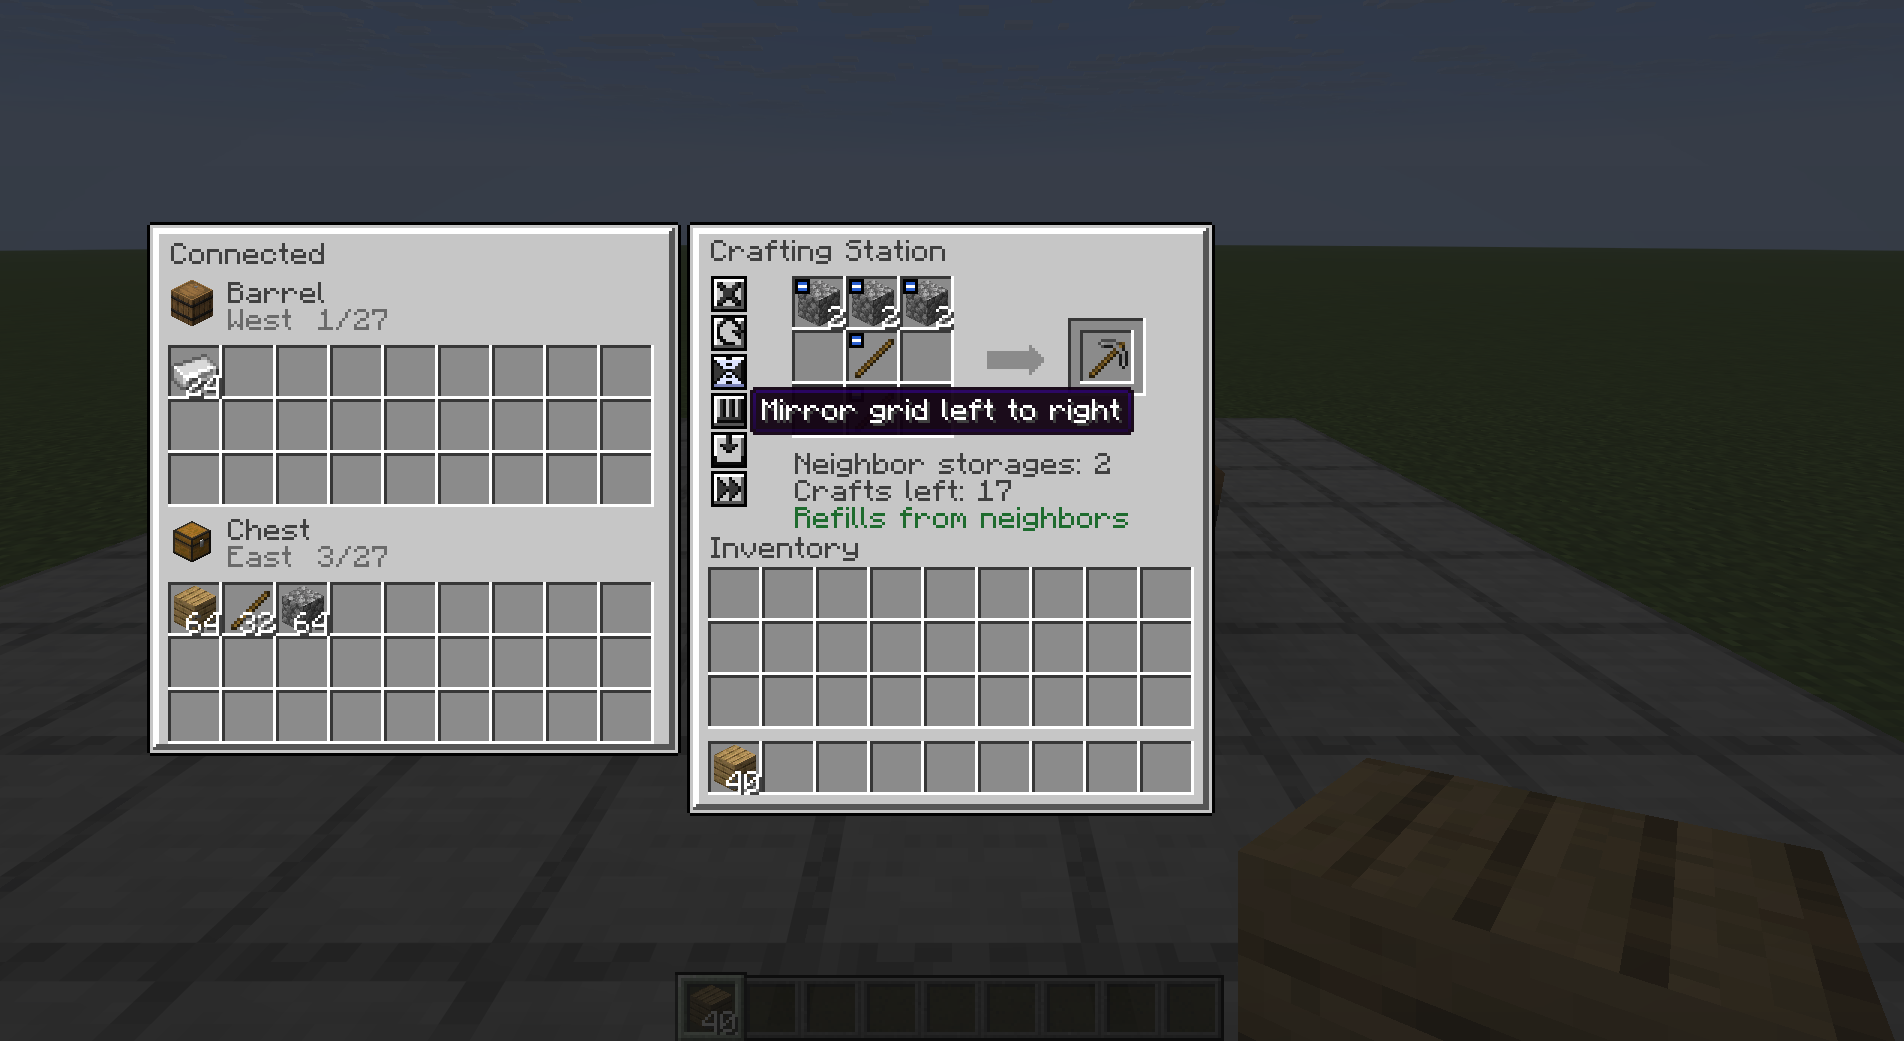
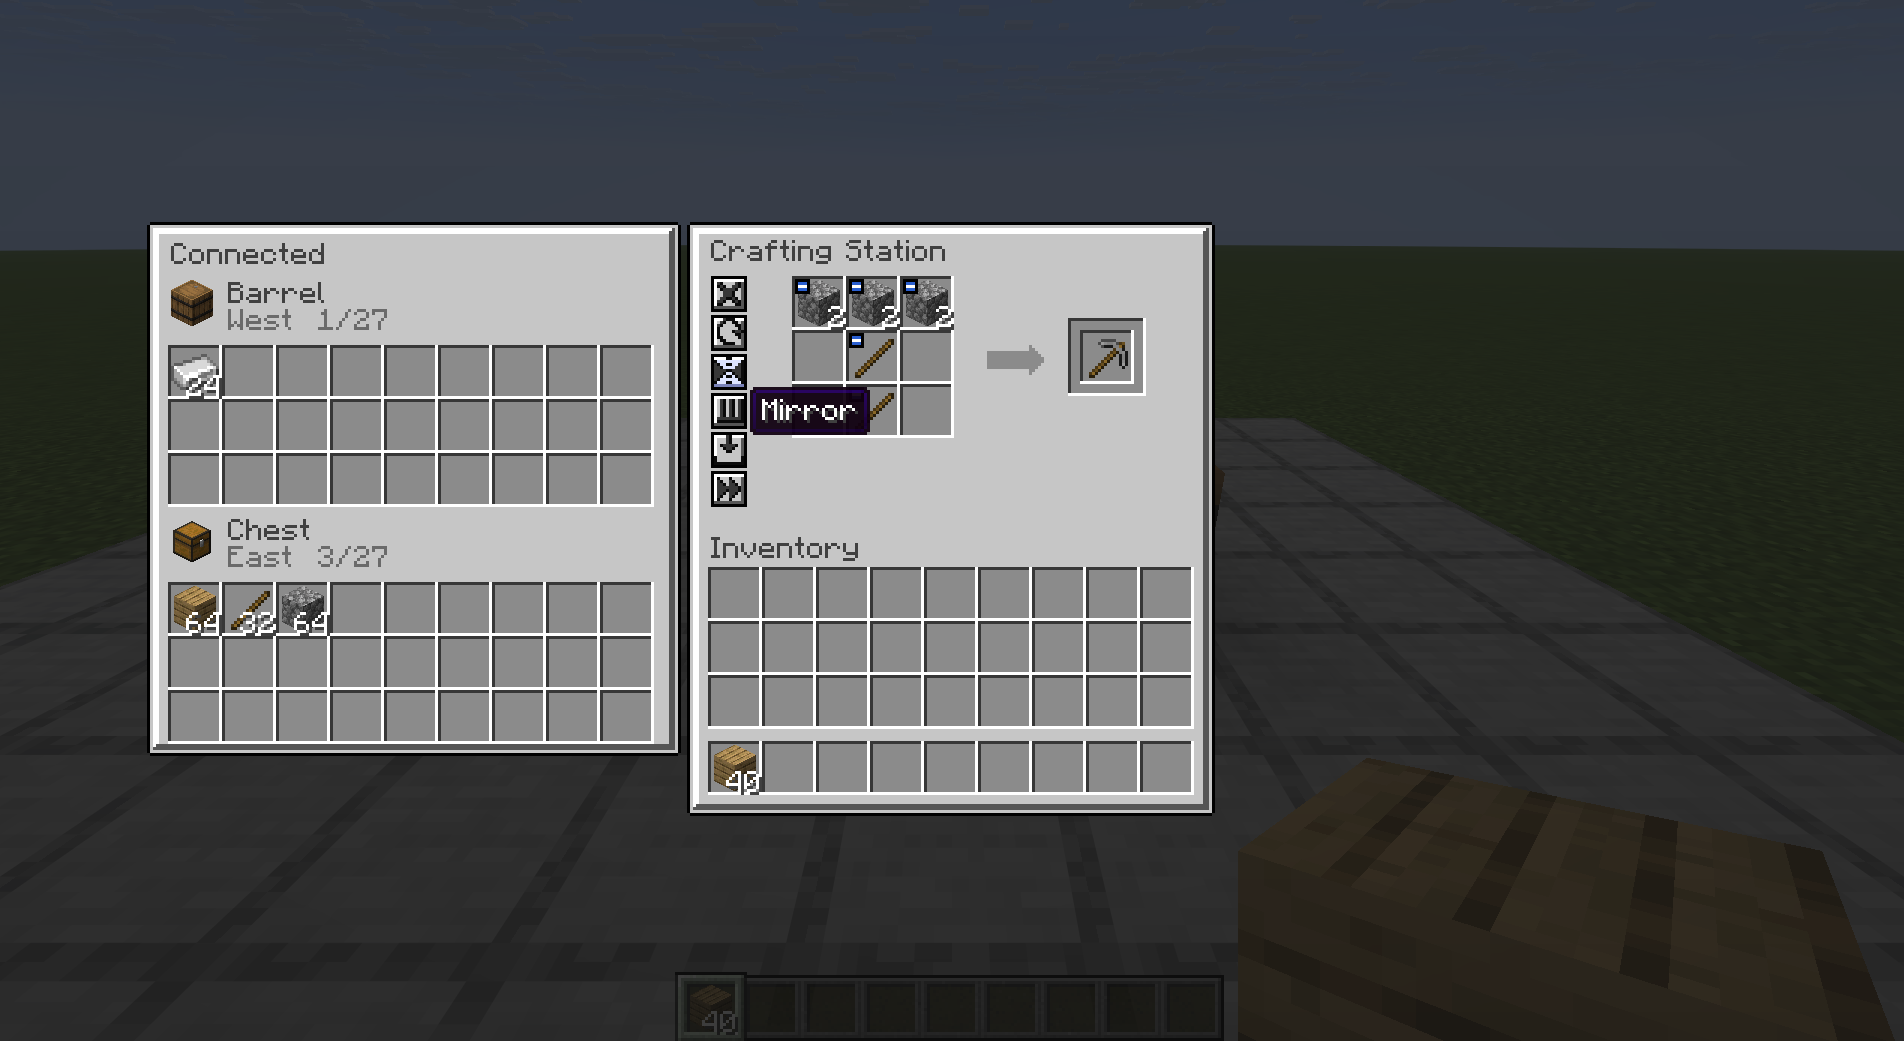
No hints: plain name tooltips, no status or explainer text, reference-only wiki

Changed region(s): [[0.4028, 0.3689, 0.6197, 0.5226]]

diff --git a/version-26.2/src/main/java/com/itmecasey/barelycrafting/client/StationScreen.java b/version-26.2/src/main/java/com/itmecasey/barelycrafting/client/StationScreen.java
@@ -18,7 +18,6 @@ public class StationScreen extends AbstractContainerScreen<StationMenu> {
     public static final int WIDTH = 176;
     public static final int HEIGHT = 198;
     private static final int TEXT = 0xFF404040;
-    private static final int GREEN = 0xFF1E6B2E;
     private static final int BLUE = 0xFF2A5FD0;
 
     public StationScreen(StationMenu menu, Inventory inventory, Component title) {
@@ -119,26 +118,12 @@ public class StationScreen extends AbstractContainerScreen<StationMenu> {
         for (int i = 0; i < 6; i++) {
             g.fill(ax + 14 + i, ay + i, ax + 15 + i, ay + 10 - i, 0xFF8B8B8B);
         }
-        // Where ingredients come from.
-        int x = leftPos + StationMenu.GRID_X;
-        int y = topPos + 77;
-        int storages = menu.storages();
-        g.text(font, Component.translatable(storages > 0 ? "gui.barelycrafting.storages" : "gui.barelycrafting.no_storages", storages), x, y, TEXT, false);
-        if (menu.resultReady()) {
-            g.text(font, Component.translatable("gui.barelycrafting.crafts_left", menu.craftsLeft()), x, y + 9, TEXT, false);
-            if (menu.refillsFromNeighbors()) {
-                g.text(font, Component.translatable("gui.barelycrafting.from_neighbors"), x, y + 18, GREEN, false);
-            }
-        }
     }
 
     private static final String[] SIDES = {"down", "up", "north", "south", "west", "east"};
     private static final int VIEW_W = 178;
 
-    /**
-     * The panel left of the screen: the real contents of the connected storages (their first 27 slots each, up to four storages),
-     * under a header with the block, the side it touches and how many of its slots are in use.
-     */
+    /** The panel left of the screen: the real contents of the connected storages (first 27 slots of up to four), read-only. */
     private void drawConnected(GuiGraphicsExtractor g) {
         int n = menu.storages();
         int shown = Math.min(n, StationMenu.VIEW_SECTIONS);
@@ -147,20 +132,14 @@ public class StationScreen extends AbstractContainerScreen<StationMenu> {
         int h = n == 0 ? 36 : 20 + shown * StationMenu.SECTION_H + (n > shown ? 12 : 0);
         panel(g, x, y, VIEW_W, h);
         g.text(font, Component.translatable("gui.barelycrafting.connected"), x + 8, y + 7, TEXT, false);
-        if (n == 0) {
-            g.text(font, Component.translatable("gui.barelycrafting.no_storages"), x + 62, y + 7, 0xFF6A6A6A, false);
-            return;
-        }
         for (int i = 0; i < shown; i++) {
             int top = y + 20 + i * StationMenu.SECTION_H;
             int side = menu.neighborSide(i);
             net.minecraft.world.level.block.Block block = menu.neighborBlock(i);
             g.item(new net.minecraft.world.item.ItemStack(block.asItem()), x + 7, top - 1);
             String where = side >= 0 && side < 6 ? Component.translatable("gui.barelycrafting.side_" + SIDES[side]).getString() : "";
-            String name = block.getName().getString();
-            String info = where + "  " + menu.neighborUsed(i) + "/" + menu.neighborTotal(i) + (menu.neighborTotal(i) > StationMenu.VIEW_PER ? " (first 27)" : "");
-            g.text(font, name, x + 27, top, TEXT, false);
-            g.text(font, info, x + 27, top + 9, 0xFF6A6A6A, false);
+            g.text(font, block.getName().getString(), x + 27, top, TEXT, false);
+            g.text(font, where + "  " + menu.neighborUsed(i) + "/" + menu.neighborTotal(i), x + 27, top + 9, 0xFF6A6A6A, false);
         }
         if (n > shown) {
             g.text(font, Component.translatable("gui.barelycrafting.more_storages", n - shown), x + 8, y + 22 + shown * StationMenu.SECTION_H - 4, 0xFF6A6A6A, false);
@@ -185,17 +164,5 @@ public class StationScreen extends AbstractContainerScreen<StationMenu> {
             g.fill(x + 1, y + 1, x + 4, y + 4, BLUE);
             g.fill(x + 1, y + 2, x + 4, y + 3, 0xFFFFFFFF);
         }
-    }
-
-    @Override
-    protected void extractTooltip(GuiGraphicsExtractor g, int mx, int my) {
-        if (hoveredSlot != null && hoveredSlot.index < StationMenu.GRID && hoveredSlot.hasItem() && menu.getCarried().isEmpty()
-                && menu.stockAt(hoveredSlot.index) > 0) {
-            List<Component> lines = new ArrayList<>(getTooltipFromContainerItem(hoveredSlot.getItem()));
-            lines.add(Component.translatable("gui.barelycrafting.in_neighbors", menu.stockAt(hoveredSlot.index)));
-            g.setComponentTooltipForNextFrame(font, lines, mx, my);
-            return;
-        }
-        super.extractTooltip(g, mx, my);
     }
 }

diff --git a/version-26.3/src/main/java/com/itmecasey/barelycrafting/client/StationScreen.java b/version-26.3/src/main/java/com/itmecasey/barelycrafting/client/StationScreen.java
@@ -18,7 +18,6 @@ public class StationScreen extends AbstractContainerScreen<StationMenu> {
     public static final int WIDTH = 176;
     public static final int HEIGHT = 198;
     private static final int TEXT = 0xFF404040;
-    private static final int GREEN = 0xFF1E6B2E;
     private static final int BLUE = 0xFF2A5FD0;
 
     public StationScreen(StationMenu menu, Inventory inventory, Component title) {
@@ -119,26 +118,12 @@ public class StationScreen extends AbstractContainerScreen<StationMenu> {
         for (int i = 0; i < 6; i++) {
             g.fill(ax + 14 + i, ay + i, ax + 15 + i, ay + 10 - i, 0xFF8B8B8B);
         }
-        // Where ingredients come from.
-        int x = leftPos + StationMenu.GRID_X;
-        int y = topPos + 77;
-        int storages = menu.storages();
-        g.text(font, Component.translatable(storages > 0 ? "gui.barelycrafting.storages" : "gui.barelycrafting.no_storages", storages), x, y, TEXT, false);
-        if (menu.resultReady()) {
-            g.text(font, Component.translatable("gui.barelycrafting.crafts_left", menu.craftsLeft()), x, y + 9, TEXT, false);
-            if (menu.refillsFromNeighbors()) {
-                g.text(font, Component.translatable("gui.barelycrafting.from_neighbors"), x, y + 18, GREEN, false);
-            }
-        }
     }
 
     private static final String[] SIDES = {"down", "up", "north", "south", "west", "east"};
     private static final int VIEW_W = 178;
 
-    /**
-     * The panel left of the screen: the real contents of the connected storages (their first 27 slots each, up to four storages),
-     * under a header with the block, the side it touches and how many of its slots are in use.
-     */
+    /** The panel left of the screen: the real contents of the connected storages (first 27 slots of up to four), read-only. */
     private void drawConnected(GuiGraphicsExtractor g) {
         int n = menu.storages();
         int shown = Math.min(n, StationMenu.VIEW_SECTIONS);
@@ -147,20 +132,14 @@ public class StationScreen extends AbstractContainerScreen<StationMenu> {
         int h = n == 0 ? 36 : 20 + shown * StationMenu.SECTION_H + (n > shown ? 12 : 0);
         panel(g, x, y, VIEW_W, h);
         g.text(font, Component.translatable("gui.barelycrafting.connected"), x + 8, y + 7, TEXT, false);
-        if (n == 0) {
-            g.text(font, Component.translatable("gui.barelycrafting.no_storages"), x + 62, y + 7, 0xFF6A6A6A, false);
-            return;
-        }
         for (int i = 0; i < shown; i++) {
             int top = y + 20 + i * StationMenu.SECTION_H;
             int side = menu.neighborSide(i);
             net.minecraft.world.level.block.Block block = menu.neighborBlock(i);
             g.item(new net.minecraft.world.item.ItemStack(block.asItem()), x + 7, top - 1);
             String where = side >= 0 && side < 6 ? Component.translatable("gui.barelycrafting.side_" + SIDES[side]).getString() : "";
-            String name = block.getName().getString();
-            String info = where + "  " + menu.neighborUsed(i) + "/" + menu.neighborTotal(i) + (menu.neighborTotal(i) > StationMenu.VIEW_PER ? " (first 27)" : "");
-            g.text(font, name, x + 27, top, TEXT, false);
-            g.text(font, info, x + 27, top + 9, 0xFF6A6A6A, false);
+            g.text(font, block.getName().getString(), x + 27, top, TEXT, false);
+            g.text(font, where + "  " + menu.neighborUsed(i) + "/" + menu.neighborTotal(i), x + 27, top + 9, 0xFF6A6A6A, false);
         }
         if (n > shown) {
             g.text(font, Component.translatable("gui.barelycrafting.more_storages", n - shown), x + 8, y + 22 + shown * StationMenu.SECTION_H - 4, 0xFF6A6A6A, false);
@@ -185,17 +164,5 @@ public class StationScreen extends AbstractContainerScreen<StationMenu> {
             g.fill(x + 1, y + 1, x + 4, y + 4, BLUE);
             g.fill(x + 1, y + 2, x + 4, y + 3, 0xFFFFFFFF);
         }
-    }
-
-    @Override
-    protected void extractTooltip(GuiGraphicsExtractor g, int mx, int my) {
-        if (hoveredSlot != null && hoveredSlot.index < StationMenu.GRID && hoveredSlot.hasItem() && menu.getCarried().isEmpty()
-                && menu.stockAt(hoveredSlot.index) > 0) {
-            List<Component> lines = new ArrayList<>(getTooltipFromContainerItem(hoveredSlot.getItem()));
-            lines.add(Component.translatable("gui.barelycrafting.in_neighbors", menu.stockAt(hoveredSlot.index)));
-            g.setComponentTooltipForNextFrame(font, lines, mx, my);
-            return;
-        }
-        super.extractTooltip(g, mx, my);
     }
 }

diff --git a/version-26.2/src/main/java/com/itmecasey/barelycrafting/menu/StationMenu.java b/version-26.2/src/main/java/com/itmecasey/barelycrafting/menu/StationMenu.java
@@ -15,7 +15,6 @@ import java.util.List;
 import java.util.Map;
 import net.minecraft.core.BlockPos;
 import net.minecraft.core.registries.BuiltInRegistries;
-import net.minecraft.network.chat.Component;
 import net.minecraft.server.level.ServerLevel;
 import net.minecraft.server.level.ServerPlayer;
 import net.minecraft.world.Container;
@@ -506,7 +505,6 @@ public class StationMenu extends AbstractContainerMenu {
                 }
             }
         }
-        player.sendSystemMessage(Component.translatable("message.barelycrafting.missing", new ItemStack(item).getHoverName()));
     }
 
     // ---- Shift-click ----

diff --git a/version-26.3/src/main/java/com/itmecasey/barelycrafting/menu/StationMenu.java b/version-26.3/src/main/java/com/itmecasey/barelycrafting/menu/StationMenu.java
@@ -15,7 +15,6 @@ import java.util.List;
 import java.util.Map;
 import net.minecraft.core.BlockPos;
 import net.minecraft.core.registries.BuiltInRegistries;
-import net.minecraft.network.chat.Component;
 import net.minecraft.server.level.ServerLevel;
 import net.minecraft.server.level.ServerPlayer;
 import net.minecraft.world.Container;
@@ -506,7 +505,6 @@ public class StationMenu extends AbstractContainerMenu {
                 }
             }
         }
-        player.sendSystemMessage(Component.translatable("message.barelycrafting.missing", new ItemStack(item).getHoverName()));
     }
 
     // ---- Shift-click ----

diff --git a/README.md b/README.md
@@ -10,9 +10,9 @@ Part of the Barely series by ItMeCasey Studios. MIT license. Wiki: https://itmec
 - **Neighbor storages.** The six sides are scanned in the order below, north, south, west, east (setting `neighbors.faces`); any block with an item handler counts. Nearest first, slot 0 upward.
 - **Rules.** One craft takes one item from every filled grid slot (the grid first). A slot that runs empty is refilled with one matching item from the neighbors; when none has it the slot stays empty and crafting stops. Leftovers (empty buckets, damaged tools) go back into their own slot when it is empty, else to a neighbor, your inventory or the ground. Everything runs on the server and nothing is deleted or created.
 - **Shift-click the result** crafts as many as possible into your inventory (stops when the grid stops matching, when the result would become a different item, or when the inventory is full). **Craft All** does the same from a button.
-- **Buttons** (plain monochrome icons left of the grid, tooltips drawn on top of everything): Clear (to neighbors, then you), Rotate, Mirror, Balance, Refill (from you, then neighbors), Craft All. Each can be switched off in the config; the server enforces it.
+- **Buttons** (plain monochrome icons left of the grid, name tooltips drawn on top of everything): Clear (to neighbors, then you), Rotate, Mirror, Balance, Refill (from you, then neighbors), Craft All. Each can be switched off in the config; the server enforces it.
 - **Connected panel:** left of the screen, the real contents of the connected storages (first 27 slots of up to four), read-only.
-- **On screen:** a blue mark in grid slots whose item the neighbors hold more of, the number of neighbor storages, "Crafts left", and "Refills from neighbors".
+- **Grid marks:** a small blue mark in grid slots whose item the neighbors hold more of.
 - **BEI:** the plus button of a crafting recipe fills the grid (clears it first; ingredients come from your inventory, then the neighbors).
 
 ## Config

diff --git a/PLAN.md b/PLAN.md
@@ -25,3 +25,7 @@
 ## Testing
 
 Unit tests of the pure logic (`GridMath`, `Pull`, `CraftMath`, `Settings`), a headless server self test on every layer (`scripts/server_check.py`), and a real-client tour on one Forge and one NeoForge layer through the isolated launcher (`scripts/client_tour.py`).
+
+## House rule: no hints
+
+No hint, tutorial or status-explainer text anywhere. Buttons get only their plain name as tooltip. Wiki has reference pages only.
